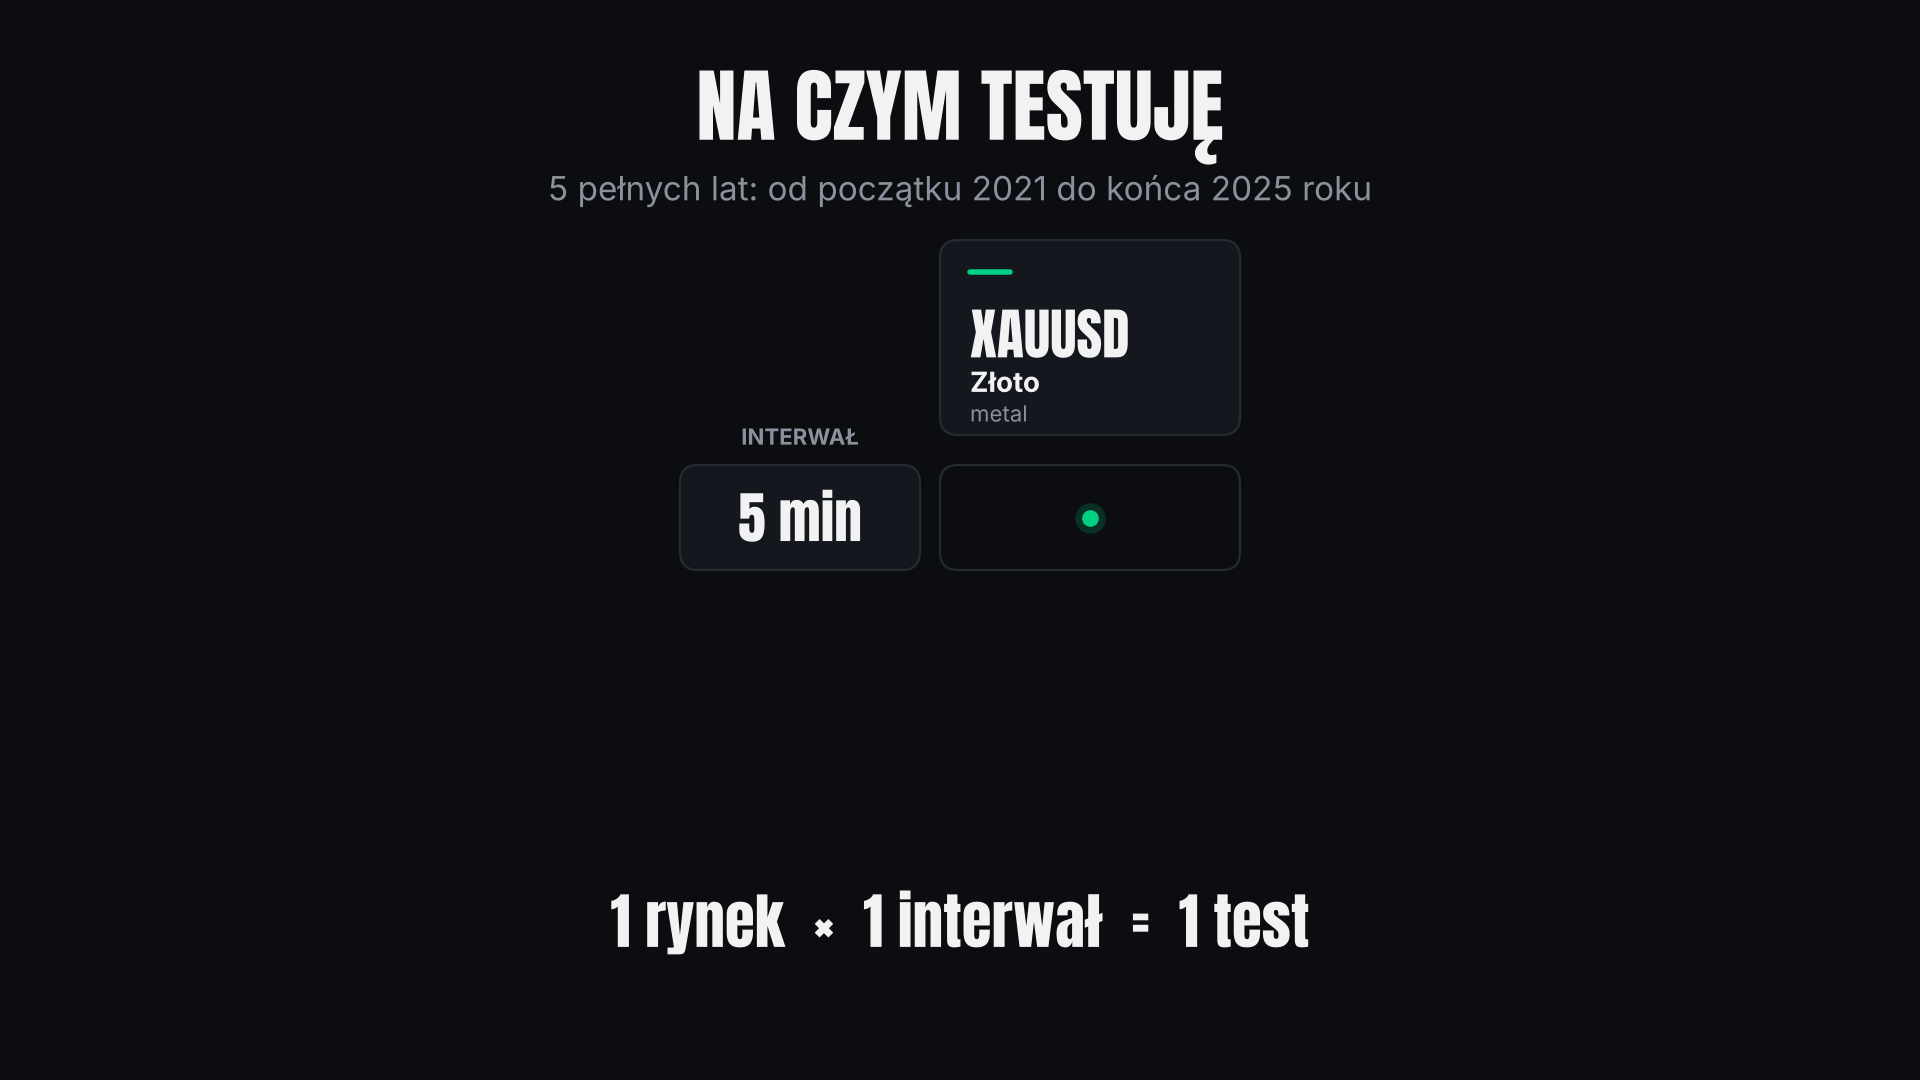
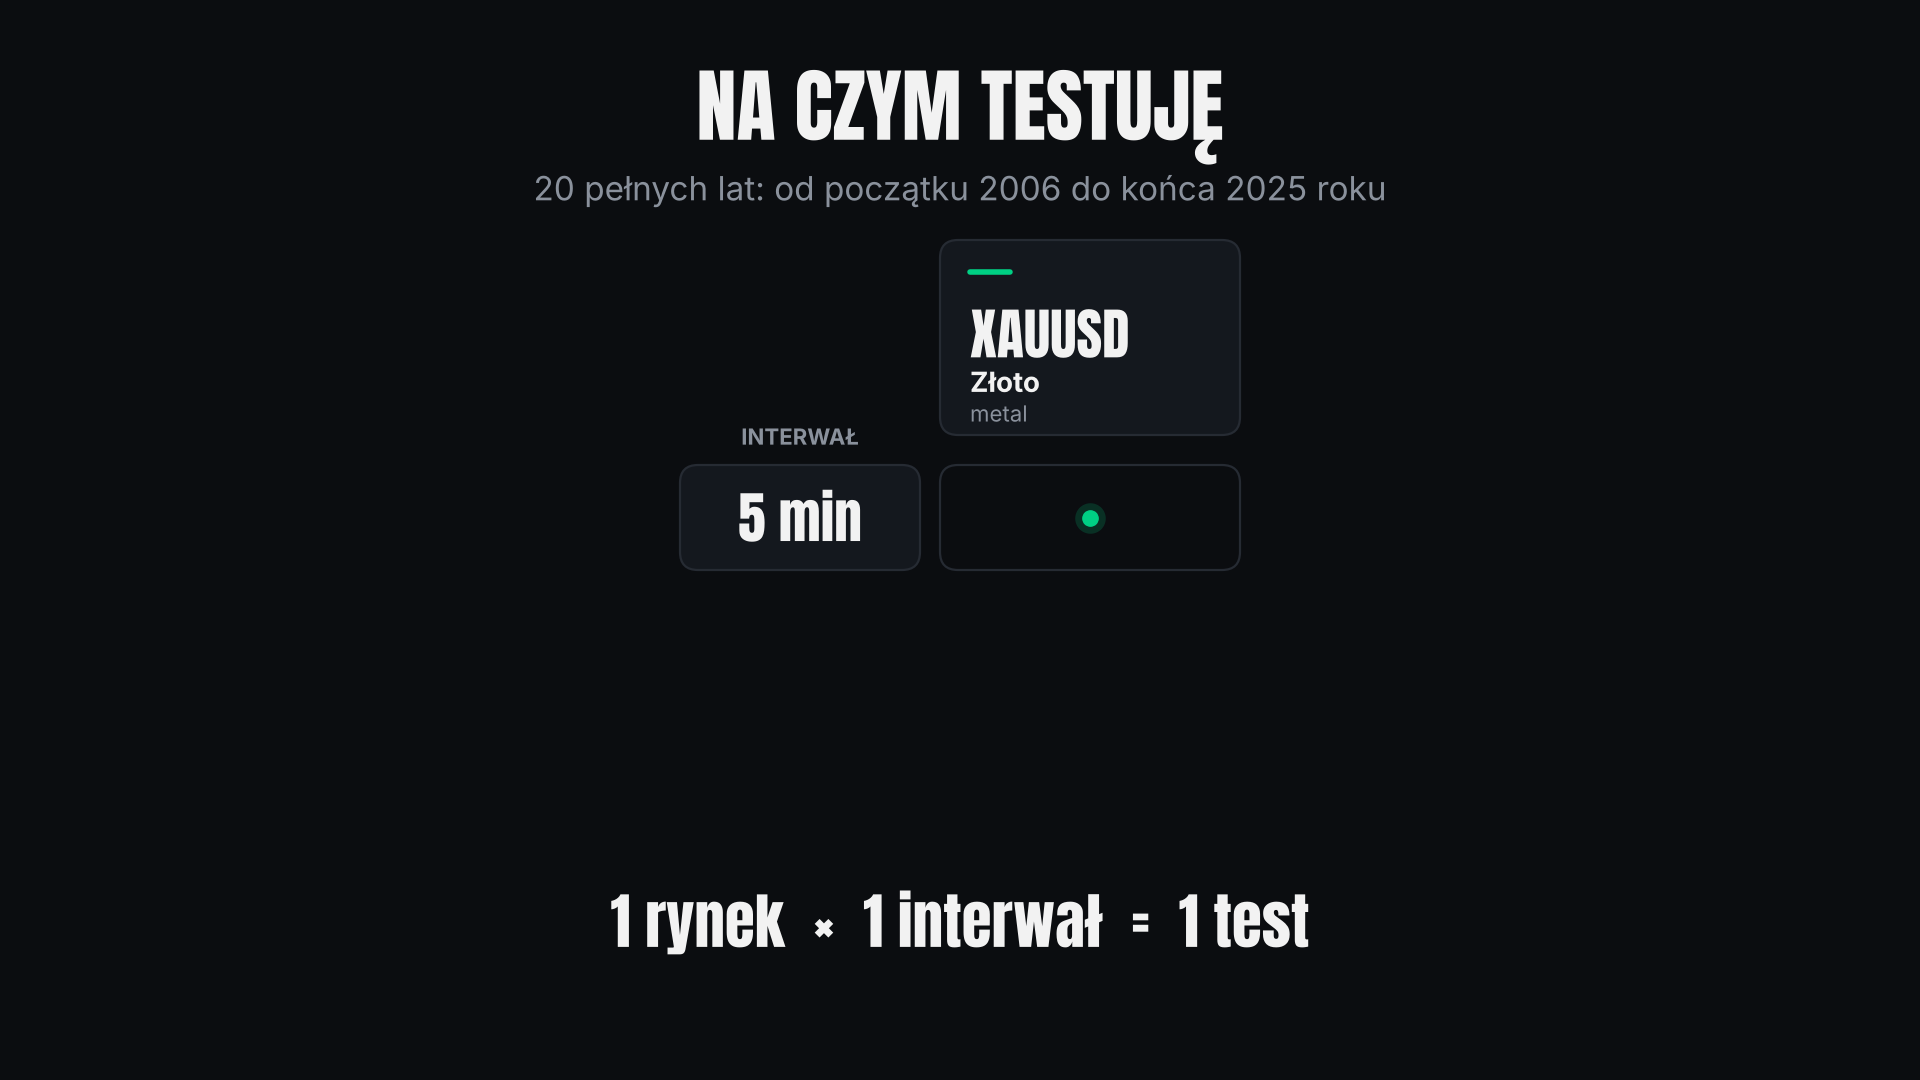
Plansza rynków Gold czwartek/piątek: 20 lat (2006–2025)
Claude-Session: https://claude.ai/code/session_01DmSsWBcz6xw89VZfSA4fdK

Changed region(s): [[0.2812, 0.1528, 0.7188, 0.1833]]

diff --git a/narzedzia/plansze_objasniajace/rynki_plansza.py b/narzedzia/plansze_objasniajace/rynki_plansza.py
@@ -158,3 +158,7 @@ if __name__ == "__main__":
     # (test_dzienny.py --strategia MOC_MOO --aktywa BRK.A --od 2006-01-01).
     plansza(["BRK.A"], ["1D"], ROOT / "nagrania" / "Reddit" / "MOC_MOO" / "plansza_rynki.png",
             period_text("2006-01-01", "2025-12-31"))
+    # Gold Thursday-Friday: autor pisze o 20 latach — ticki XAUUSD od 2006
+    # (run_all_assets: START_DATE = "2006-01-01", CHUNK_YEARS = 5).
+    plansza(["XAUUSD"], ["5min"], ROOT / "nagrania" / "Reddit" / "Gold_ThuFri" / "plansza_rynki.png",
+            period_text("2006-01-01", "2025-12-31"))
